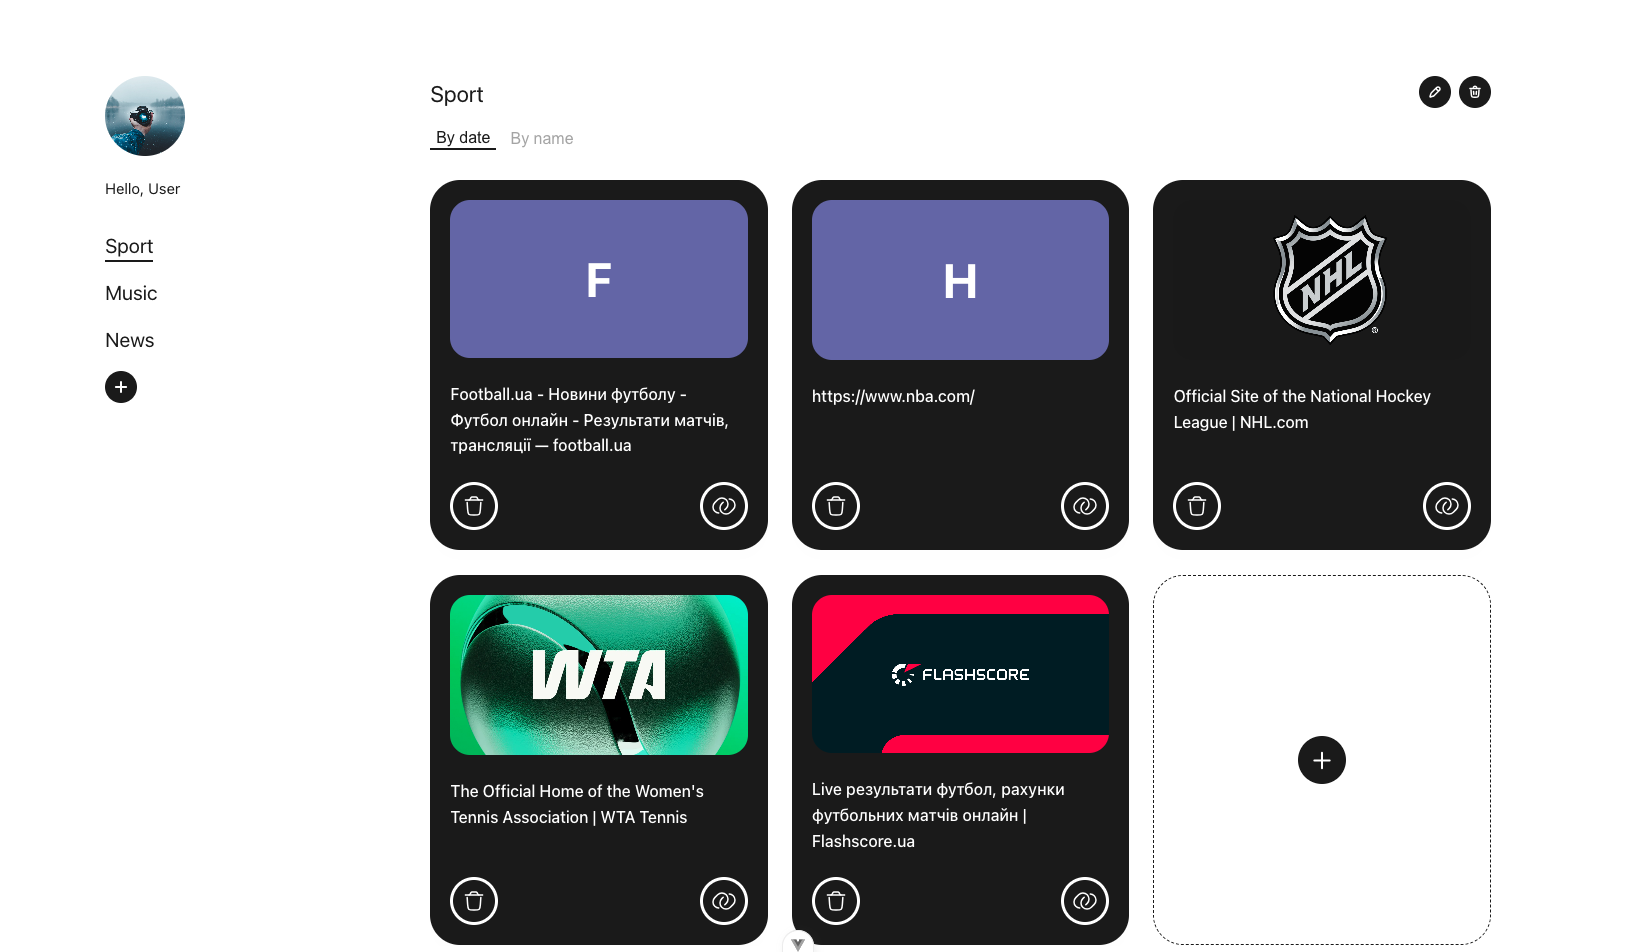
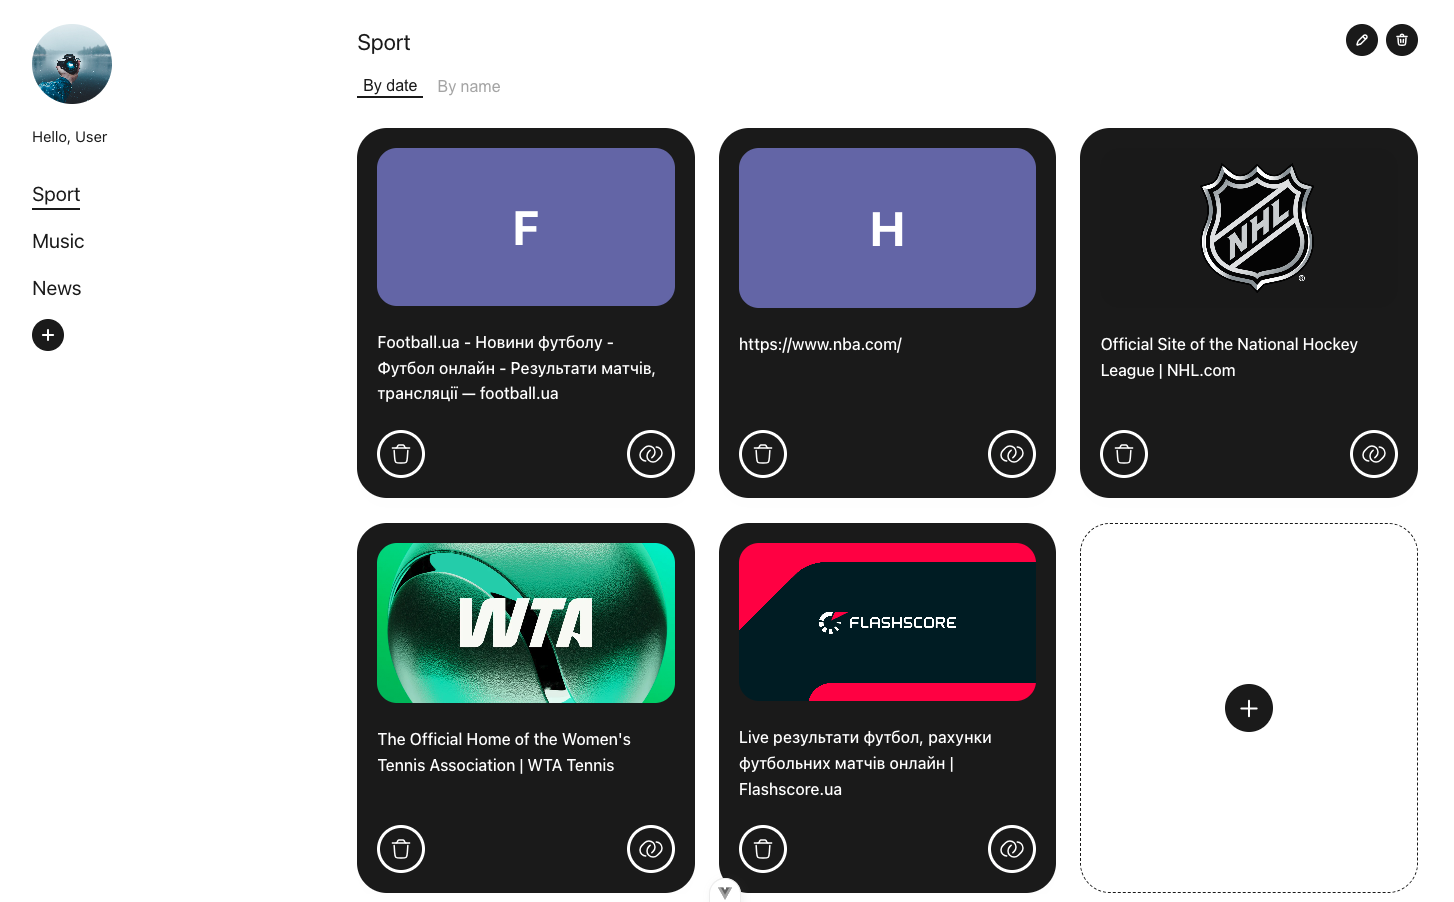
update img size

diff --git a/README.md b/README.md
@@ -1,6 +1,6 @@
 # Bookmark-app
 
-<img width="1637" height="952" alt="image" src="https://raw.githubusercontent.com/TarasCampeao/Bookmark-app/refs/heads/main/public/project.png" />
+<img width="1454" height="902" alt="image" src="https://raw.githubusercontent.com/TarasCampeao/Bookmark-app/refs/heads/main/public/project.png" />
 
 This template should help get you started developing with Vue 3 in Vite.
 
